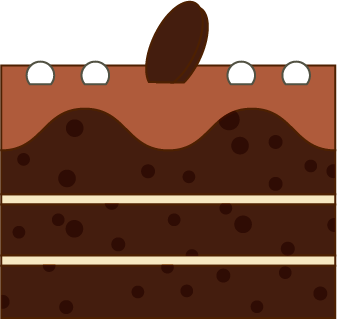
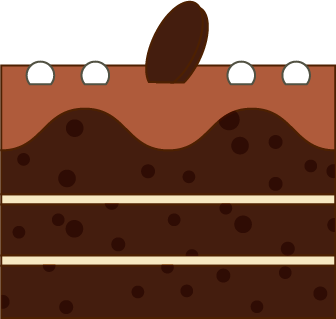
improve visual for cake slice 1 v 2

diff --git a/src/Pages/LearningPage/LearningPath.tsx b/src/Pages/LearningPage/LearningPath.tsx
@@ -227,11 +227,11 @@ const FairDivision = () => {
         Cakes are good examples because they can be cut at any place, as many times as
         necessary, and are usually shared equally.
       </p>
-      <CakeImage
-        flavor="chocolate"
-        width={200}
-        sx={{ display: 'block', margin: 'auto' }}
-      />
+      <ImageContainer>
+        <CakeImage flavor="chocolate" width={200}/>
+        {/* make them look overlapping, not perfect though */}
+        <CakeImage flavor="chocolate" width={200} sx={{ marginLeft: '-1px' }} />
+      </ImageContainer>
 
       <p>
         In contrast, <strong>indivisible resources</strong> can't be split. This could be
@@ -307,6 +307,18 @@ const TwoFlavorCake = ({ preferredFlavor, setPreferredFlavor }: CommonProps) => 
       <p>
         This cake is <strong>heterogenous</strong> (made of different things).
       </p>
+      <ImageContainer>
+        <CakeImage
+          flavor="vanilla"
+          width="200px"
+        />
+        <CakeImage
+          flavor="chocolate"
+          width="200px"
+          sx={{marginLeft: '-1px'}}
+        />
+      </ImageContainer>
+
       <CharacterImage character="Aki" sx={{ float: 'right' }} />
 
       <p>
